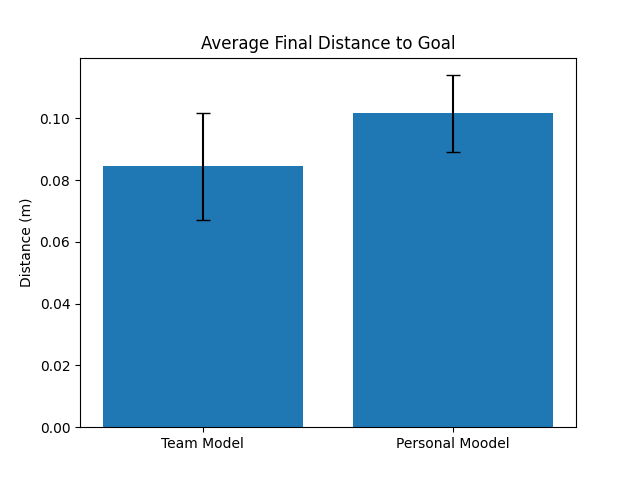
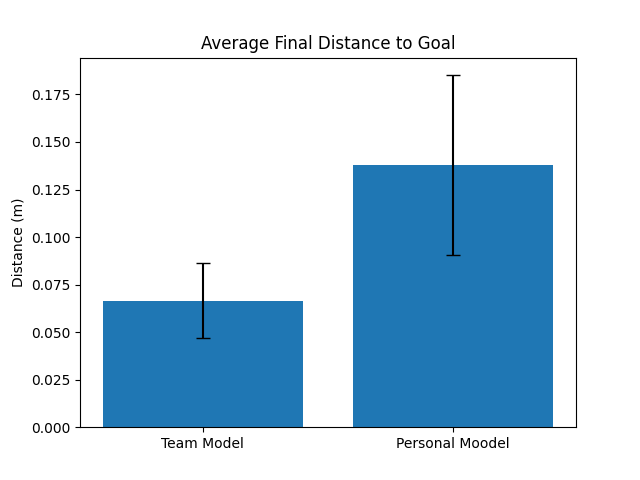
update

diff --git a/robotics_pipeline_final.py b/robotics_pipeline_final.py
@@ -24,7 +24,7 @@ HOLD_DURATION = 50  # Number of consecutive steps within the threshold required 
 MAX_ITERATIONS = 1000  # Maximum iterations allowed for a simulation
 TIME_STEP = 1.0  # Time interval for PID control
 PID_GAINS = {"Kp": [15.0, 15.0, 15.0], "Ki": [0.0, 0.0, 0.0], "Kd": [0.8, 0.8, 0.8]}  # PID gains
-MODEL_ZIP_PATH = r"C:\Users\szala\Documents\GitHub\rl\best_model.zip"  # Path to the RL model
+MODEL_ZIP_PATH = r"C:\Users\szala\Documents\GitHub\rl\best_personal_model.zip"  # Path to the RL model
 CV_MODEL_PATH = r"C:\Users\szala\Documents\GitHub\renforcement_learning_232430\232430_unet_model_128px_v9md_checkpoint.keras"  # Path to the CV model
 
 

diff --git a/task11_readme.md b/task11_readme.md
@@ -94,6 +94,6 @@ This model reached the lowest episode length of 60, also it got really close to 
 <img title="AVG Reward" alt="Alt text" src="rl_performance_visuals/ownrl_vs_teamrl_speed.png">
 <img title="AVG Reward" alt="Alt text" src="rl_performance_visuals/ownrl_vs_teamrl_accuracy.png">
 
-Performance is very similar, in the visualized run the team model performs marginally better in inoculating root tips, but other runs showed personal model as faster, so the their performance is very similiar. I decided to go with my personal model as my final.
+Performance is very similar, in the visualized run the personal model performs marginally better in terms of speed but worse in accuracy, but other runs showed team model as faster, so the their performance is very similiar. I decided to go with my personal model as my final model, because it is a little faster on average, and, because I trained the model and it reached this performance in less steps during training.
 
 
